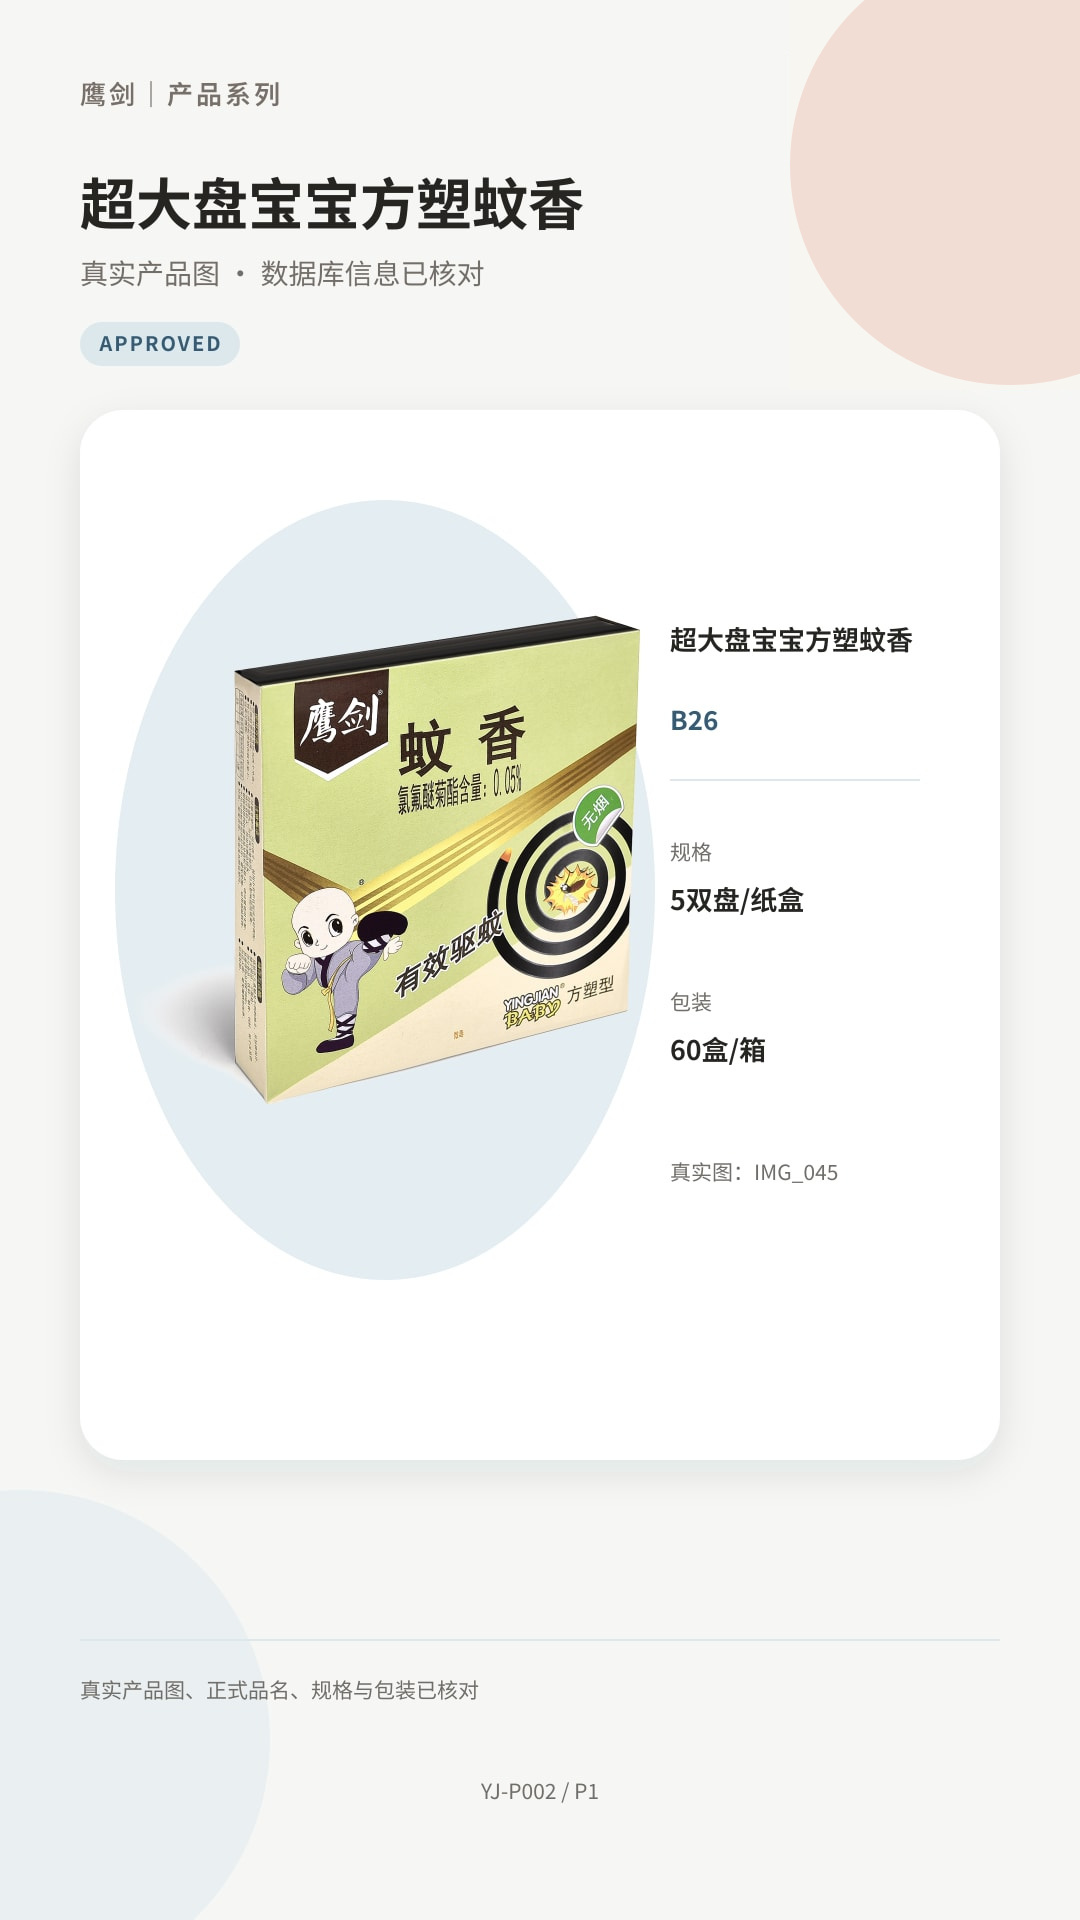
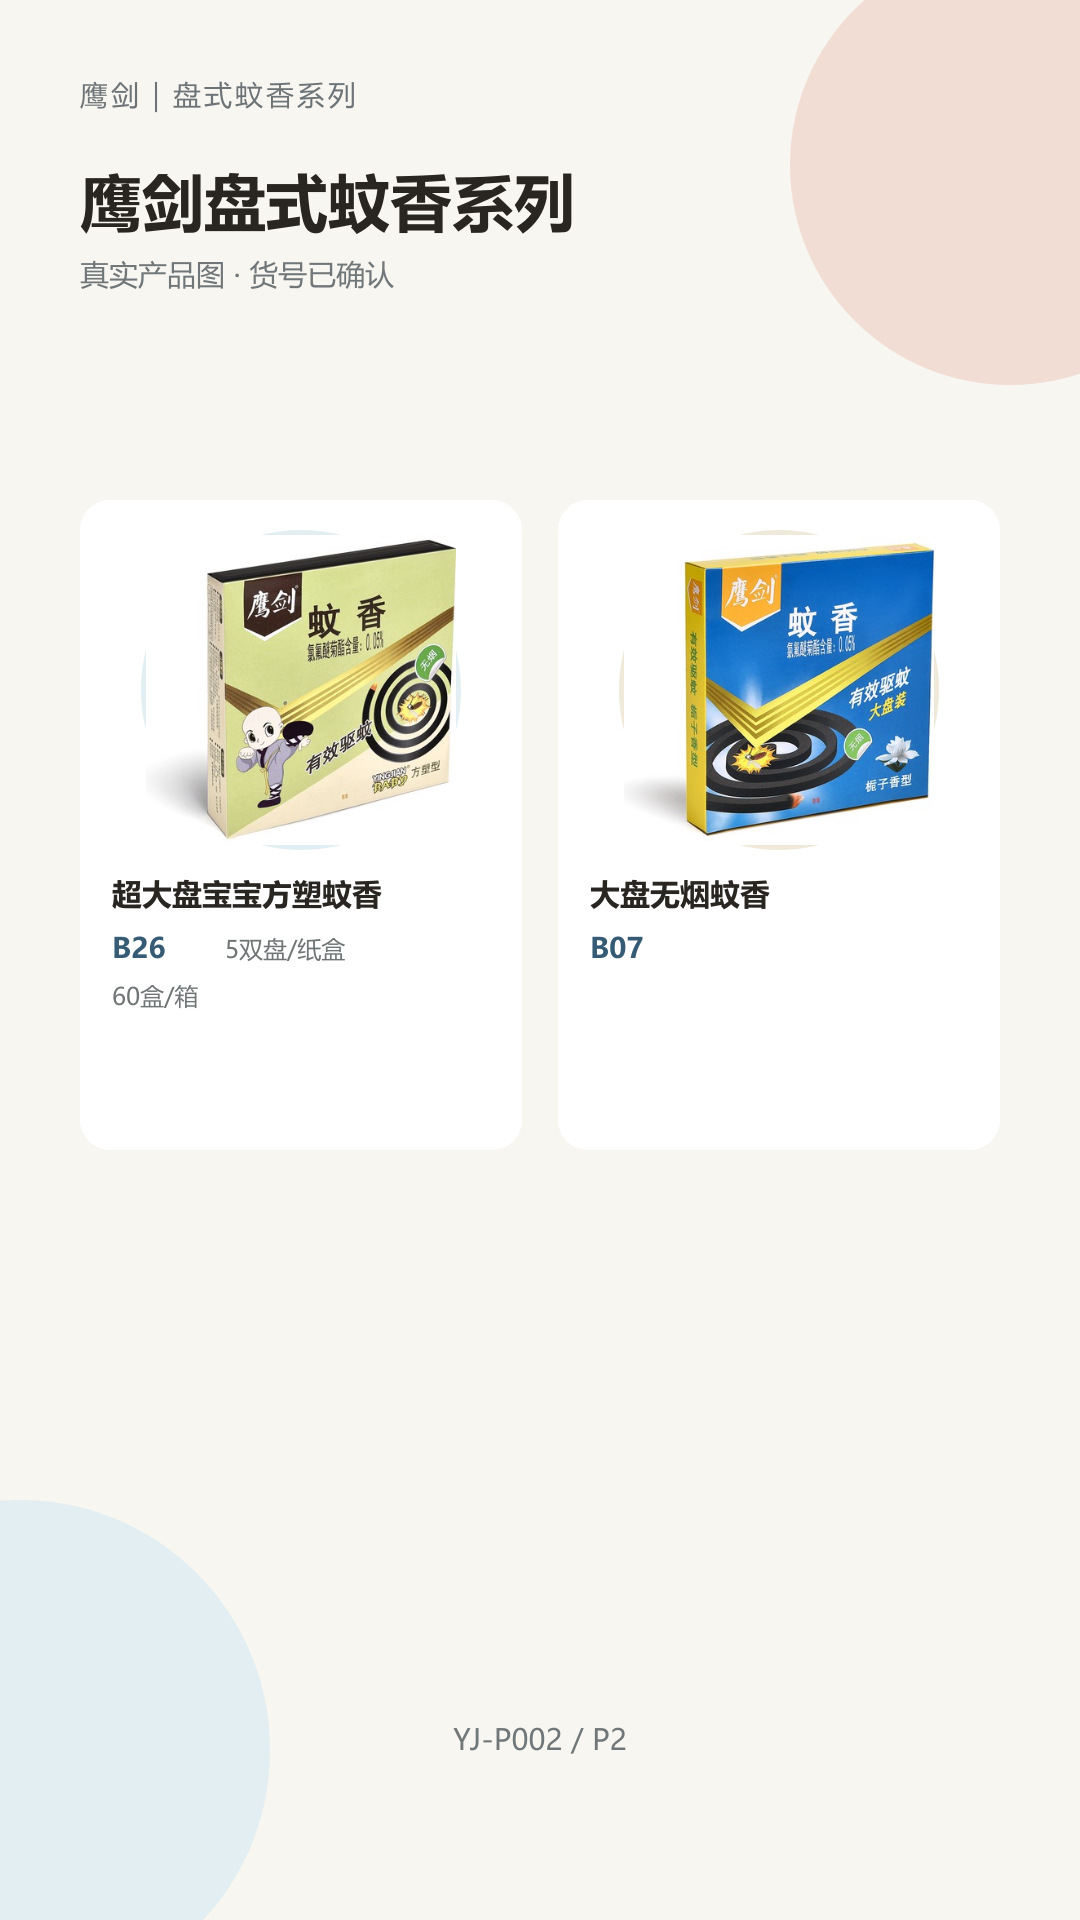
新增大盘桶装蚊香并更新鹰剑及力沙产品

diff --git a/index.html b/index.html
@@ -41,6 +41,7 @@ const pages = [
   {id:"JZ-P001B",title:"健字气雾剂系列（二）",section:"健字",src:"pages/JZ-P001B.jpg"},
   {id:"JZ-P008",title:"健字呋虫胺系列",section:"健字",src:"pages/JZ-P008.jpg"},
   {id:"JZ-P002",title:"免拆桶装蚊香",section:"健字",src:"pages/JZ-P002.jpg"},
+  {id:"JZ-P010",title:"大盘桶装蚊香",section:"健字",src:"pages/JZ-P010.jpg"},
   {id:"JZ-P003",title:"电热蚊香液系列（一）",section:"健字",src:"pages/JZ-P003.jpg"},
   {id:"JZ-P004",title:"电热蚊香液系列（二）",section:"健字",src:"pages/JZ-P004.jpg"},
   {id:"JZ-P005",title:"电热蚊香片系列",section:"健字",src:"pages/JZ-P005.jpg"},
@@ -54,7 +55,7 @@ const pages = [
   {id:"SEC-JGB",title:"金箍棒产品专区",section:"金箍棒",src:"pages/SEC-JGB.jpg"},
   {id:"JGB-P001",title:"金箍棒气雾剂系列",section:"金箍棒",src:"pages/JGB-P001.jpg"},
   {id:"JGB-P002",title:"金箍棒电热蚊香液系列",section:"金箍棒",src:"pages/JGB-P002.jpg"},
-  {id:"SEC-LS",title:"力沙产品专区（原图待补）",section:"力沙",src:"pages/SEC-LS.jpg"},
+  {id:"SEC-LS",title:"力沙气雾杀虫剂",section:"力沙",src:"pages/SEC-LS.jpg"},
   {id:"SEC-HC",title:"家庭日化产品专区",section:"家庭日化",src:"pages/SEC-HC.jpg"},
   {id:"HC-P001",title:"花露水系列",section:"家庭日化",src:"pages/HC-P001.jpg"},
   {id:"HC-P002",title:"健字厕净（柠檬香）",section:"家庭日化",src:"pages/HC-P002.jpg"},
@@ -81,7 +82,7 @@ const links = {
     [7.4,52.1,85.2,12.3,'COOP-001','进入招商合作'],[7.4,66.9,85.2,12.3,'CONTACT','进入联系方式']],
   'ENT-MARKET': [[7.4,77.0,85.2,8.5,'SEC-JZ','查看品牌与产品']],
   'ENT-INTRO': [[10.2,36.7,38,14.8,'@asset:营业执照.jpg','查看营业执照大图'],[51.8,36.7,38,14.8,'@asset:农药生产许可证.jpg','查看农药生产许可证大图'],[10.2,51.9,38,14.8,'@asset:农药登记证_代表证.jpg','查看农药登记证大图'],[51.8,51.9,38,14.8,'@asset:河北省科技型中小企业.jpg','查看科技型中小企业证书大图']],
-  'SEC-JZ': ['JZ-P001','JZ-P001B','JZ-P008','JZ-P002','JZ-P003','JZ-P004','JZ-P005','JZ-P007'],
+  'SEC-JZ': ['JZ-P001','JZ-P001B','JZ-P008','JZ-P002','JZ-P010','JZ-P003','JZ-P004','JZ-P005','JZ-P007'],
   'SEC-YJ': ['YJ-P001','YJ-P002','YJ-P003','YJ-P004'],
   'SEC-JGB': ['JGB-P001','JGB-P002'],
   'SEC-HC': ['HC-P001','HC-P002','HC-P003'],
@@ -89,19 +90,20 @@ const links = {
 };
 const productImages={
  'JZ-P001':['015','018','025','022'],'JZ-P001B':['016','017','026'],'JZ-P008':['A80','A77'],'JZ-P002':['063','064'],
- 'JZ-P003':['089','006','007','003'],'JZ-P004':['058','053'],'JZ-P005':['008','004','005','A24'],'JZ-P007':['A08','083','088','081'],'JZ-P009':['A79'],
- 'YJ-P001':['049','050','059','060'],'YJ-P002':['045'],'YJ-P003':['013','018','020','023'],'YJ-P004':['021'],
+ 'JZ-P010':['JZB1','JZB2'],'JZ-P003':['089','006','007','003'],'JZ-P004':['058','053'],'JZ-P005':['008','004','005','A24'],'JZ-P007':['A08','083','088','081'],'JZ-P009':['A79'],
+ 'YJ-P001':['049','050','059','060'],'YJ-P002':['045','B07'],'YJ-P003':['B03','020','023'],'YJ-P004':['B01','021'],'SEC-LS':['D01'],
  'JGB-P001':['091','024','027'],'JGB-P002':['071','070','068','069'],'HC-P001':['035','067','065'],'HC-P002':['010'],'HC-P003':['030','028','029','031']};
 const productLayout={4:[[7.4,21.3,40.9,28.6],[51.7,21.3,40.9,28.6],[7.4,51.9,40.9,28.6],[51.7,51.9,40.9,28.6]],3:[[7.4,21.3,40.9,28.6],[51.7,21.3,40.9,28.6],[29.5,51.9,40.9,28.6]],2:[[7.4,21.5,85.2,26.8],[7.4,50.5,85.2,26.8]],1:[[7.4,21.5,85.2,55.0]]};
+const productPositions={'YJ-P002':[[7.4,26.0,40.9,34.0],[51.7,26.0,40.9,34.0]],'YJ-P004':[[7.4,26.0,40.9,34.0],[51.7,26.0,40.9,34.0]]};
 function openLightbox(src,label){lightboxImage.src=src;lightboxImage.alt=label;lightboxCaption.textContent=label;lightbox.hidden=false;document.body.classList.add('modal-open')}
 function closeLightbox(){lightbox.hidden=true;lightboxImage.src='';document.body.classList.remove('modal-open')}
 function sectionLinks(ids) { return ids.map((id,n)=>[(ids.length%2===1&&n===ids.length-1)?29.5:7.4+(n%2)*44.3,21.1+Math.floor(n/2)*14.3,40.9,12.2,id,'进入'+pages[byId[id]].title]); }
-function sectionLinksJz(ids) { return ids.map((id,n)=>[6.5+(n%2)*48.1,20.3+Math.floor(n/2)*15.1,38.9,10.9,id,'进入'+pages[byId[id]].title]); }
+function sectionLinksJz(ids) { return ids.map((id,n)=>[(ids.length%2===1&&n===ids.length-1)?30.5:6.5+(n%2)*48.1,19.3+Math.floor(n/2)*12.8,38.9,10.9,id,'进入'+pages[byId[id]].title]); }
 function renderHotspots(p) {
   hotspots.innerHTML=''; let items=links[p.id]||[]; if(items.length && typeof items[0]==='string') items=p.id==='SEC-JZ'?sectionLinksJz(items):sectionLinks(items);
   if(p.id==='COVER') items=[];
-  items.forEach(([x,y,w,h,target,label])=>{const b=document.createElement('button');b.className='hotspot';b.style.cssText=`left:${x}%;top:${y}%;width:${w}%;height:${h}%`;b.setAttribute('aria-label',label);if(p.id!=='SEC-JZ'&&label&&label.includes('进入')){const t=document.createElement('span');t.className='pulse-link';t.innerHTML='进入 <span class="pulse-arrow">→</span>';b.append(t)}b.onclick=()=>{if(target==='@tel'){location.href='tel:03122161615';return}if(target.startsWith('@asset:')){window.open('assets/'+encodeURIComponent(target.slice(7)),'_blank');return}show(byId[target])};hotspots.append(b);});
-  const ids=productImages[p.id];if(ids){const pos=p.id==='JZ-P008'?[[7.4,31.8,40.9,33.9],[51.7,31.8,40.9,33.9]]:productLayout[ids.length];ids.forEach((n,i)=>{const [x,y,w,h]=pos[i];const b=document.createElement('button');b.className='hotspot product-hotspot';b.style.cssText=`left:${x}%;top:${y}%;width:${w}%;height:${h}%`;b.setAttribute('aria-label','点击放大产品图片 '+n);b.onclick=e=>{e.stopPropagation();openLightbox('assets/products/IMG_'+n+'.jpg','真实产品图片 '+n)};hotspots.append(b)})}
+  items.forEach(([x,y,w,h,target,label])=>{const b=document.createElement('button');b.className='hotspot';b.style.cssText=`left:${x}%;top:${y}%;width:${w}%;height:${h}%`;b.setAttribute('aria-label',label);if(p.id!=='SEC-JZ'&&p.id!=='BRANDS'&&label&&label.includes('进入')){const t=document.createElement('span');t.className='pulse-link';t.innerHTML='进入 <span class="pulse-arrow">→</span>';b.append(t)}b.onclick=()=>{if(target==='@tel'){location.href='tel:03122161615';return}if(target.startsWith('@asset:')){window.open('assets/'+encodeURIComponent(target.slice(7)),'_blank');return}show(byId[target])};hotspots.append(b);});
+  const ids=productImages[p.id];if(ids){const pos=productPositions[p.id]||(p.id==='JZ-P008'?[[7.4,31.8,40.9,33.9],[51.7,31.8,40.9,33.9]]:productLayout[ids.length]);ids.forEach((n,i)=>{const [x,y,w,h]=pos[i];const b=document.createElement('button');b.className='hotspot product-hotspot';b.style.cssText=`left:${x}%;top:${y}%;width:${w}%;height:${h}%`;b.setAttribute('aria-label','点击放大产品图片 '+n);b.onclick=e=>{e.stopPropagation();openLightbox('assets/products/IMG_'+n+'.jpg','真实产品图片 '+n)};hotspots.append(b)})}
   if(p.id==='COVER'){const b=document.createElement('button');b.className='cover-pulse';b.textContent='进入全书主目录';b.onclick=()=>show(byId['DIR-001']);hotspots.append(b)}
   if(p.id==='ENT-MARKET'){const b=document.createElement('span');b.className='market-pulse';b.textContent='查看品牌与产品';hotspots.append(b)}
   if(p.id==='SEC-JZ'){const t=document.createElement('div');t.className='choose-product-tip';t.innerHTML='<span>☝</span><strong>点击方框选择产品</strong>';hotspots.append(t)}

diff --git a/sw.js b/sw.js
@@ -1,1 +1,1 @@
-const C='topic6-v1-p8-p11-p12-a24';const CORE=['./','./index.html','./style.css','./manifest.webmanifest','./icon-192.png'];self.addEventListener('install',e=>e.waitUntil(caches.open(C).then(c=>c.addAll(CORE)).then(()=>self.skipWaiting())));self.addEventListener('activate',e=>e.waitUntil(caches.keys().then(keys=>Promise.all(keys.filter(k=>k!==C).map(k=>caches.delete(k)))).then(()=>self.clients.claim())));self.addEventListener('fetch',e=>e.respondWith(caches.match(e.request).then(r=>r||fetch(e.request).then(x=>{const y=x.clone();caches.open(C).then(c=>c.put(e.request,y));return x;}))));
+const C='topic6-v1-1997a6c-requested-updates-20260814';const CORE=['./','./index.html','./style.css','./manifest.webmanifest','./icon-192.png'];self.addEventListener('install',e=>e.waitUntil(caches.open(C).then(c=>c.addAll(CORE)).then(()=>self.skipWaiting())));self.addEventListener('activate',e=>e.waitUntil(caches.keys().then(keys=>Promise.all(keys.filter(k=>k!==C).map(k=>caches.delete(k)))).then(()=>self.clients.claim())));self.addEventListener('fetch',e=>e.respondWith(caches.match(e.request).then(r=>r||fetch(e.request).then(x=>{const y=x.clone();caches.open(C).then(c=>c.put(e.request,y));return x;}))));
